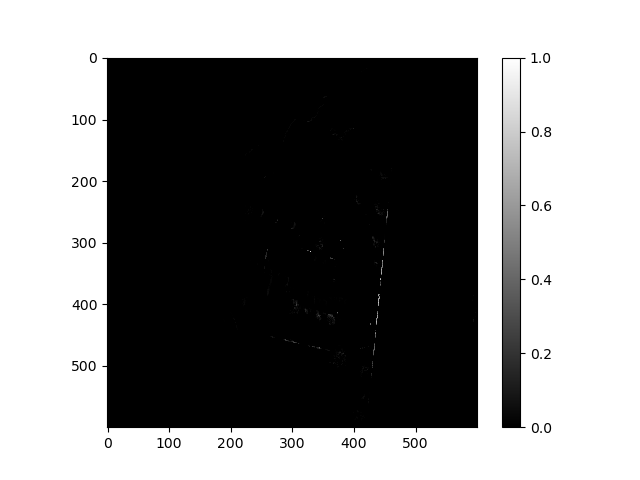
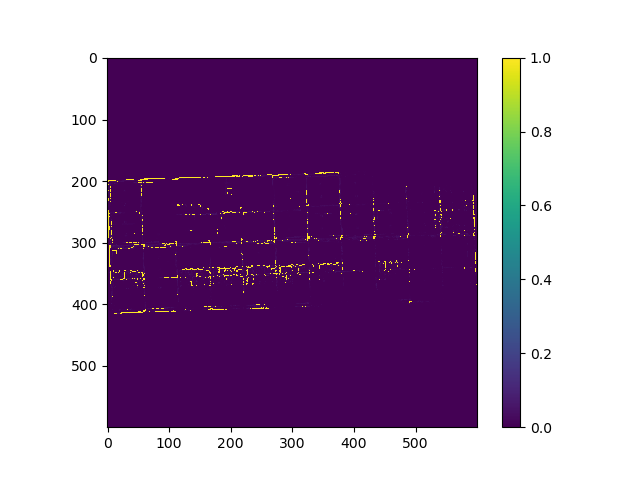
Changes for dataset

diff --git a/README.md b/README.md
@@ -60,7 +60,7 @@ You can start with setting up FAST-LIO2 in your ROS2 environment. The code and d
 
 ### The Datasets
 
-We provide datasets that you will use to generate point clouds using FAST-LIO2. The datasets can be downloaded here in the form of `rosbags2`. The ros2 bags contain various topics among which you'll find `/ouster/points` and `/ouster/imu` which are of type `sensor_msgs/Pointcloud2` and `sensor_msgs/Imu` respectively. The `ros2 bag` can be downloaded [here](https://buffalo.box.com/s/ye2azyb62p9eovxio685o6si725kk0cz)
+We provide datasets that you will use to generate point clouds using FAST-LIO2. The datasets can be downloaded here in the form of `rosbags2`. The ros2 bags contain various topics among which you'll find `/ouster/points` and `/ouster/imu` which are of type `sensor_msgs/Pointcloud2` and `sensor_msgs/Imu` respectively. The `ros2 bag` can be downloaded [here](https://buffalo.box.com/s/perj656561xl6pa7k8prjl7v8ogkk63s)
 
 Testing ply can be downloaded from [here](https://buffalo.box.com/s/oztatbku5zjyqgc1jh1cu9bx8u7e0hhg)
 
@@ -133,11 +133,12 @@ In this part, you will generate point cloud maps using FAST-LIO2 and the dataset
 
 ### Suggested Plan Of Attack
 
-1. Start by setting up FAST-LIO2. For this assignment, we will be using MIT-SPARK/spark-fast-lio and the [Colloseo dataset](https://buffalo.box.com/s/ye2azyb62p9eovxio685o6si725kk0cz). You should use the same launch procedure as [LIO on Colloseo](https://github.com/ub-cse-4568-f25/fastlio2?tab=readme-ov-file#%EF%B8%8F-lio-on-the-colosseum) but on the dataset provided to you.
-2. Run FAST-LIO2 and play the bag using `ros2 bag play <name>`.
-3. Visualize results in `rviz2` (FAST-LIO2 launch will start a `rviz2` window)
-4. On completion the point cloud map will be saved in `scene.pcd` in the folder where you launch FAST-LIO2
-5. Inspect the point cloud using [CloudCompare](https://www.danielgm.net/cc/) or PCL Tools
+1. Start by setting up FAST-LIO2. For this assignment, we will be using MIT-SPARK/spark-fast-lio and the [Colloseo dataset](https://buffalo.box.com/s/perj656561xl6pa7k8prjl7v8ogkk63s). You should use the same launch procedure as [LIO on Colloseo](https://github.com/ub-cse-4568-f25/fastlio2?tab=readme-ov-file#%EF%B8%8F-lio-on-the-colosseum) but on the dataset provided to you.
+2. Modify the contents of `mapping_vbr_colosseo.launch.yaml` to match the lidar and imu topic from the given bag. Change the frames accordingly. There is no TF published for lidar link -> imu link. So, you need to publish the transform. You can refer the `mapping_mit_campus.launch.yaml` on how to publish transforms.
+3. Run FAST-LIO2 and play the bag using `ros2 bag play <name>`.
+4. Visualize results in `rviz2` (FAST-LIO2 launch will start a `rviz2` window)
+5. On completion the point cloud map will be saved in `scene.pcd` in the folder where you launch FAST-LIO2
+6. Inspect the point cloud using [CloudCompare](https://www.danielgm.net/cc/) or PCL Tools
 
 Submit a screenshot called `part1_result.png` containing the CloudCompare scene for evaluation.
 
@@ -185,12 +186,18 @@ def cost_map(<your args>) -> numpy.ndarray:
 ![](images/top_view2.png)
 
 
+
+**Visualization on the Provided ROS2 Bag Data**
 **Top View**
-![](images/scene.png)
+![](images/pcd.png)
 
 
-**Cost Map**
+**Cost Map Before Threshold**
+![](images/before_thresh.png)
+
+**Cost Map After Threshold**
 ![](images/costmap.png)
+
 
 
 
@@ -205,7 +212,7 @@ You will write a ROS2 node `occupancy_pub` which will take a static point cloud 
 
 ### Suggested Plan of Attack
 
-1. Downsample the pointcloud with a voxel size of 0.01
+1. Downsample the pointcloud with any voxel size between 0.01 and 0.1 
 2. Implement the cost mapping algorithm in `utils.py` as a function you can call
 3. Write your ROS2 Node that imports `utils.py` and calls your `cost_map` function to generate cost map. You can use the sharedpath of the package and sys.path.append to import the `utils` module
 4. Threshold the cost map to generate an occupancy
